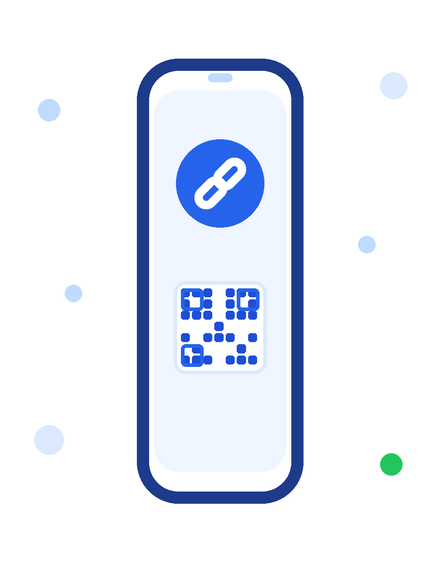
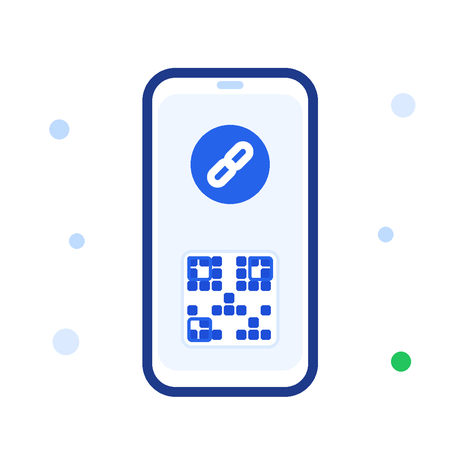
Reproportion student-join phone illustration (1.png)
The phone was drawn too narrow/tall (body ratio ~0.37) on a portrait
canvas, so inside the square operation-card box it read as an elongated
sliver. Redraw on a square 420px canvas with a natural phone ratio (~0.53)
so it fills the card box and matches the dashboard/result illustrations.

diff --git a/scripts/gen_illustrations.py b/scripts/gen_illustrations.py
@@ -72,21 +72,21 @@ def finalize(img, name, target_w):
 
 # ---------------------------------------------------------------- 1. phone + link + QR
 def gen_phone():
-    W, H = 360, 460
+    W, H = 420, 420          # square canvas so it fills the square card box
     img, d = canvas(W, H)
     # decorative dots
-    for (x, y, r, c) in [(40, 90, 9, BLUE_200), (322, 70, 11, BLUE_100),
-                         (40, 360, 12, BLUE_100), (320, 380, 9, GREEN),
-                         (300, 200, 7, BLUE_200), (60, 240, 7, BLUE_200)]:
+    for (x, y, r, c) in [(54, 118, 9, BLUE_200), (368, 96, 11, BLUE_100),
+                         (60, 312, 12, BLUE_100), (366, 330, 9, GREEN),
+                         (352, 214, 7, BLUE_200), (70, 220, 7, BLUE_200)]:
         d.ellipse([s(x - r), s(y - r), s(x + r), s(y + r)], fill=c)
-    # phone body
-    px0, py0, px1, py1 = 112, 48, 248, 412
-    rrect(d, (px0, py0, px1, py1), 34, fill=WHITE, outline=NAVY, width=10)
-    rrect(d, (px0 + 14, py0 + 26, px1 - 14, py1 - 26), 20, fill=BLUE_50)
+    # phone body (160 x 300 -> natural smartphone ratio ~0.53)
+    px0, py0, px1, py1 = 130, 62, 290, 362
+    rrect(d, (px0, py0, px1, py1), 30, fill=WHITE, outline=NAVY, width=9)
+    rrect(d, (px0 + 14, py0 + 24, px1 - 14, py1 - 24), 18, fill=BLUE_50)
     # speaker notch
-    d.rounded_rectangle([s(170), s(60), s(190), s(67)], radius=s(4), fill=BLUE_200)
+    d.rounded_rectangle([s(198), s(74), s(222), s(81)], radius=s(4), fill=BLUE_200)
     # link badge (top inside)
-    lcx, lcy = 180, 150
+    lcx, lcy = 210, 150
     d.ellipse([s(lcx - 36), s(lcy - 36), s(lcx + 36), s(lcy + 36)], fill=BLUE)
     # clean chain-link glyph: two interlocking capsule rings, tilted 45deg
     def capsule(L, Tk, wd):
@@ -106,7 +106,7 @@ def gen_phone():
     img.alpha_composite(cap, a)
     img.alpha_composite(cap, b)
     # QR block (bottom inside)
-    qx, qy, qs = 142, 230, 76
+    qx, qy, qs = 165, 228, 90
     rrect(d, (qx, qy, qx + qs, qy + qs), 10, fill=WHITE, outline=BLUE_100, width=3)
     n = 7
     cell = qs / n
@@ -133,7 +133,7 @@ def gen_phone():
         sz = (qs - 12) / n * 2.0
         d.rounded_rectangle([s(fx), s(fy), s(fx + sz), s(fy + sz)], radius=s(4),
                             outline=BLUE, width=s(3))
-    finalize(img, "1.png", 440)
+    finalize(img, "1.png", 460)
 
 
 # ---------------------------------------------------------------- 2. teacher dashboard
